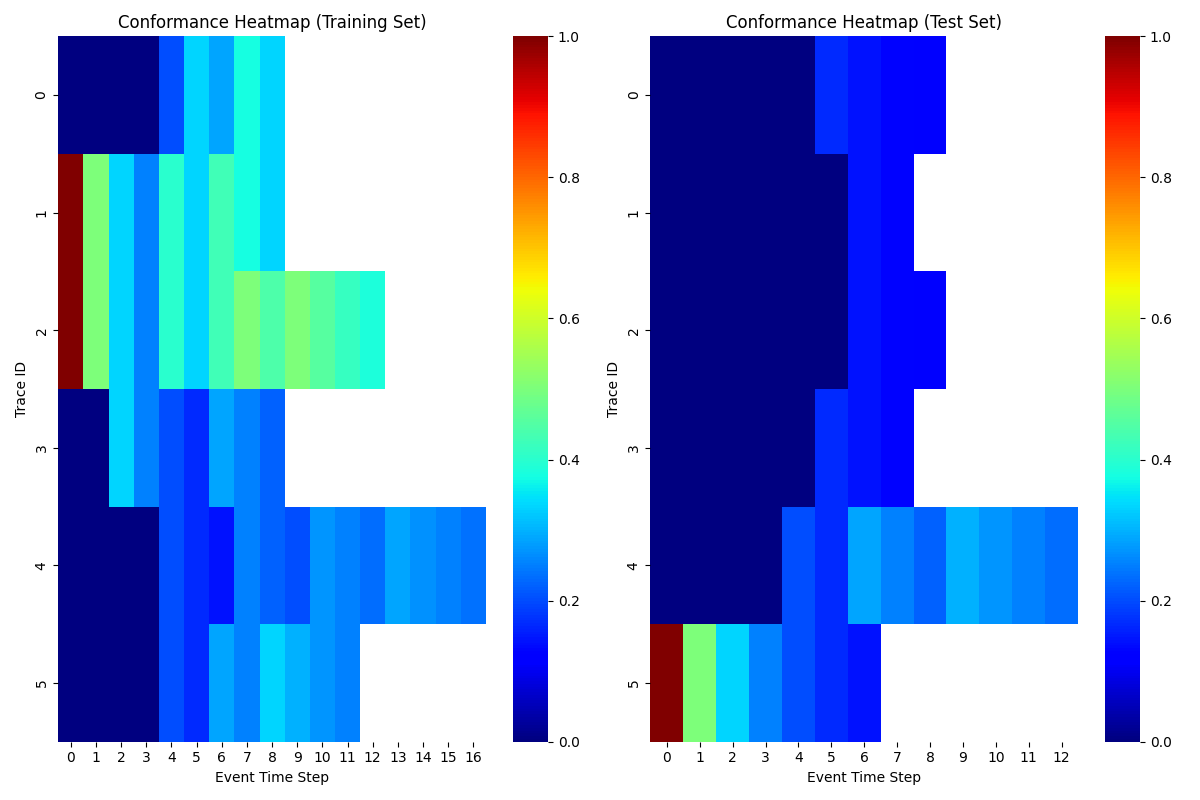
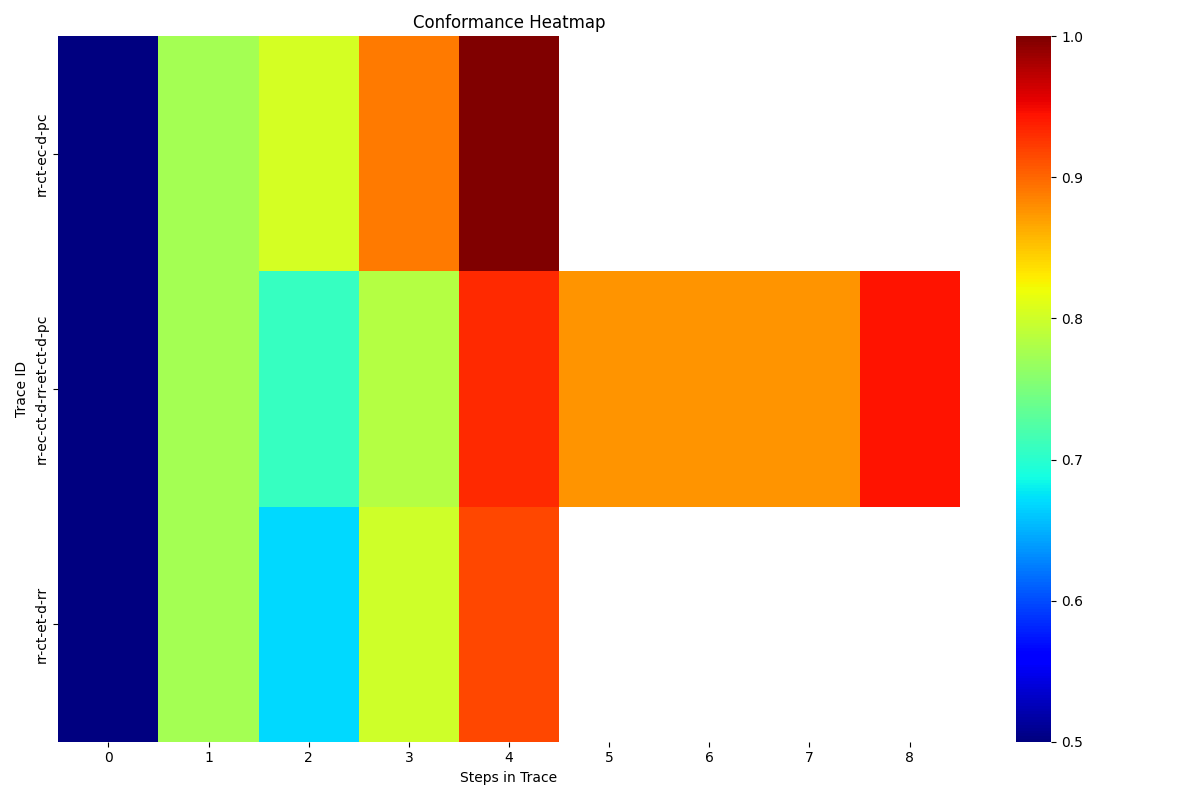
conformanceheatmap abbreviation instead of traceid

diff --git a/Project_code/conformance_heatmap_vis.py b/Project_code/conformance_heatmap_vis.py
@@ -4,6 +4,19 @@ import matplotlib.pyplot as plt
 import seaborn as sns
 import numpy as np
 from sklearn.model_selection import train_test_split
+def get_unique_variants(event_log):
+    traces = []
+    vars = pm4py.get_variants(event_log)
+    for trace in vars:
+        traces.append(trace)
+    return traces
+def abbreviate_activities(list_of_activities):
+    final_word=''
+    for activity in list_of_activities:
+        final_word+="".join(e[0] for e in activity.split())
+        final_word+='-'
+        
+    return final_word[:-1]
 
 # Function to generate conformance heatmap with concept drift over time
 def generate_conformance_heatmap_with_time(file_path, coloring='YlGnBu', pnml_path=None):
@@ -15,100 +28,59 @@ def generate_conformance_heatmap_with_time(file_path, coloring='YlGnBu', pnml_pa
     """
     try:
         # Reading the XES file
-        log = pm4py.read_xes(file_path)
-        print("Parsing log...")
-
+        event_log = pm4py.read_xes(file_path)
         # Step 1: Split the log into training and testing sets
-        train_log, test_log = train_test_split(log, test_size=0.3, random_state=42)  # 30% for testing
-        
-        print(f"Train log size: {len(train_log)} traces")
-        print(f"Test log size: {len(test_log)} traces")
-        net, initial_marking, final_marking =None,None,None
-        # Step 2: Discover the Petri net model using the inductive miner on the training log
-        if pnml_path == None:
-            net, initial_marking, final_marking = pm4py.discover_petri_net_inductive(train_log)
+        case_ids = event_log['case:concept:name'].unique()  # split data into test and training data
+        train_ids, test_ids = train_test_split(case_ids, test_size=0.5, random_state=42)
+        train_log = event_log[event_log['case:concept:name'].isin(train_ids)]
+        test_log = event_log[event_log['case:concept:name'].isin(test_ids)]
+        traces = get_unique_variants(test_log)
+        if pnml_path==None:
+            model, im, fm = pm4py.discover_petri_net_inductive(train_log) 
         else:
-            net, initial_marking, final_marking= pm4py.read.read_pnml(pnml_path)
-        
-        # Step 3: Replay the training log using the Petri net (this returns a replay result for conformance checking)
-        replay_result_train = pm4py.conformance_diagnostics_alignments(train_log, net, initial_marking, final_marking)
+            model, im, fm = pm4py.read_pnml(pnml_path)
+        # test_log = event_log
 
-        # Step 4: Replay the test log using the same Petri net (this returns a replay result for conformance checking)
-        replay_result_test = pm4py.conformance_diagnostics_alignments(test_log, net, initial_marking, final_marking)
-
-        # Initialize a list to store the transition counts and conformance over time
         time_series_train = []
-        time_series_test = []
-
-        # Step 5: Process the training log for conformance over time
-        for trace_diagnostics in replay_result_train:
-            alignment = trace_diagnostics['alignment']
+        y_axis_labels = [] 
+        for trace in traces:
+            subset_trace = []
             time_series_for_trace = []
-           
-            matches=0
-            iterations=0
-            for step in alignment:
-                log_activity, replayed_activity = step
-                iterations += 1
-                # Calculate conformance score
-                if log_activity and replayed_activity:
-                    if log_activity == replayed_activity:
-                        matches+=1
-                    
-                '''else:
-                    conformance_score = 0.3  # No alignment found, lower score'''
-                conformance_score=matches/iterations
+            # print(trace)
+            test_log_filtered = pm4py.filtering.filter_variants(test_log,[trace])
+            for activity in trace:
+                subset_trace.append(activity)
+                test_log_filtered2 = pm4py.filtering.filter_event_attribute_values(test_log_filtered,attribute_key= 'concept:name', values=subset_trace,level='event')
+                fitness = pm4py.fitness_token_based_replay(test_log_filtered2,model,im,fm)
+                conformance_score = fitness['average_trace_fitness']
                 time_series_for_trace.append(conformance_score)
+                # print(conformance_score)
+            y_axis=abbreviate_activities(subset_trace)
+            print(y_axis)
+            y_axis_labels.append(y_axis)
             time_series_train.append(time_series_for_trace)
-
-
-        # Step 6: Process the test log for conformance over time
-        for trace_diagnostics in replay_result_test:
-            alignment = trace_diagnostics['alignment']
-            time_series_for_trace = []
-            matches=0
-            iterations=0
-            for step in alignment:
-                log_activity, replayed_activity = step
-                iterations += 1
-                # Calculate conformance score
-                if log_activity and replayed_activity:
-                    if log_activity == replayed_activity:
-                        matches+=1
-
-                conformance_score=matches/iterations
-                time_series_for_trace.append(conformance_score)
-            time_series_test.append(time_series_for_trace)
 
         # Convert time series lists to DataFrames for easy visualization
         time_df_train = pd.DataFrame(time_series_train)
-        time_df_test = pd.DataFrame(time_series_test)
 
         # Now generate the heatmap for training and testing logs
         plt.figure(figsize=(12, 8))
 
         # Plot for training log
-        plt.subplot(1, 2, 1)
-        sns.heatmap(time_df_train, annot=False, cmap=coloring, cbar=True, xticklabels=True, yticklabels=True)
-        plt.title("Conformance Heatmap (Training Set)")
-        plt.xlabel("Event Time Step")
+        sns.heatmap(time_df_train, annot=False, cmap=coloring, cbar=True, xticklabels=True, yticklabels=y_axis_labels)
+        plt.title("Conformance Heatmap")
+        plt.xlabel("Steps in Trace")
         plt.ylabel("Trace ID")
 
-        # Plot for test log
-        plt.subplot(1, 2, 2)
-        sns.heatmap(time_df_test, annot=False, cmap=coloring, cbar=True, xticklabels=True, yticklabels=True)
-        plt.title("Conformance Heatmap (Test Set)")
-        plt.xlabel("Event Time Step")
-        plt.ylabel("Trace ID")
 
         # Display the heatmap
         plt.tight_layout()
-       #plt.show()
-        plt.savefig('../images/chcd.png')
+        # plt.show()
+        plt.savefig('./images/chcd.png')
 
 
     except Exception as e:
         print(f"Error generating conformance heatmap: {e}")
 
 # Example usage:
-generate_conformance_heatmap_with_time('./running-example.xes',"jet")
+generate_conformance_heatmap_with_time('/Users/aliraz/OneDrive - University College Dublin/RWTH Docs/2024/spp/final/Conformance-Checking-Visualizations/Project_code/running-example.xes',"jet")
